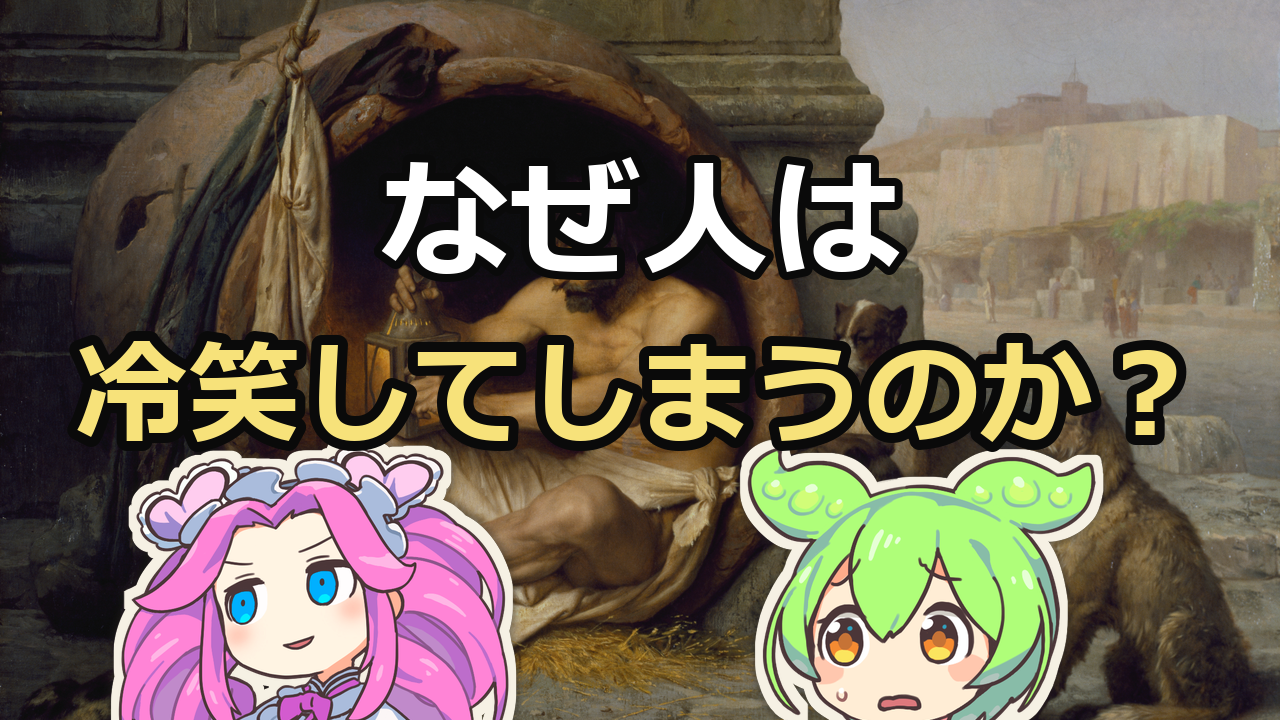
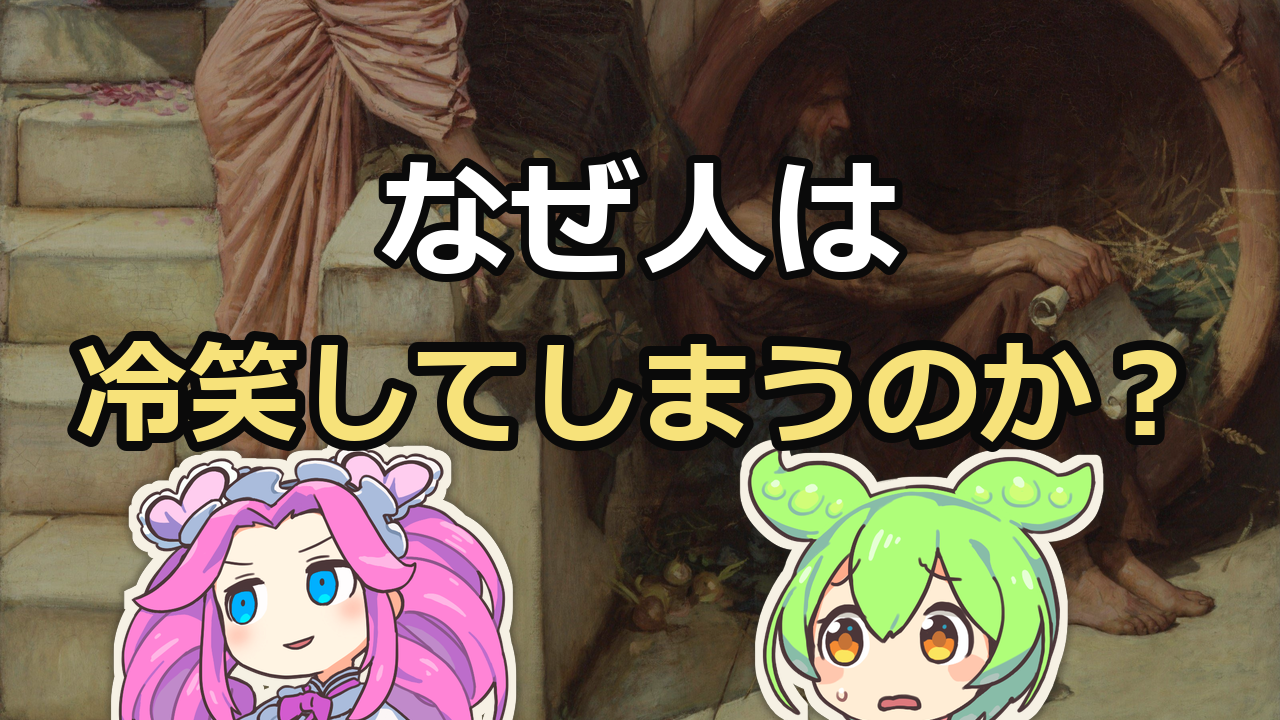
冷笑 ずんだもん版: サムネ候補 D〜J（手で口を覆う正面の口元アップ。G〜I は Codex 生成、見出しは上帯・人形は角の新レイアウト） #26

diff --git a/publish/20260905-cynicism-kamishibai/make_thumbs.py b/publish/20260905-cynicism-kamishibai/make_thumbs.py
@@ -26,6 +26,7 @@ from script_to_video.schema import Kamishibai
 OUT = Path(r"C:/Users/shuya/Projects/draft-explanation-video/publish/20260905-cynicism-kamishibai")
 SPRITES = Path(r"C:/Users/shuya/Projects/assets-kamishibai/sprites")
 PHOTOS = Path(r"C:/Users/shuya/Projects/assets-kamishibai/render-assets-cynicism")
+MOUTH_CANDIDATES = Path(r"C:/Users/shuya/Projects/assets-kamishibai/photos/candidates-cynicism/thumb-mouth")
 
 FONT_BOLD = Path(r"C:/Windows/Fonts/meiryob.ttc")
 
@@ -192,12 +193,116 @@ def make_thumb_c() -> Image.Image:
     return make_thumb(PHOTOS / "scene_03_beat1.jpg", darken_amount=0.25)
 
 
-def make_contact_sheet(images: list[Image.Image]) -> Image.Image:
-    """3案を横に並べた確認用サムネイルを作る（各画像を1/3幅に縮小）。"""
+# ============================================================
+# D/E/F: 口元アップ（手を口に当てて笑っている・正面）差し替え案
+# ============================================================
 
-    scale_w = W // 3
+
+def make_thumb_d() -> Image.Image:
+    """モノクロ・悪戯っぽい流し目＋口元を手で覆う（Pexels 7447408）。"""
+
+    return make_thumb(MOUTH_CANDIDATES / "cand08-pexels-woman-monochrome-playful.jpg", darken_amount=0.20)
+
+
+def make_thumb_e() -> Image.Image:
+    """落書き壁を背に正面から目線・指の隙間から覗く含み笑い（Pexels 3808995）。"""
+
+    return make_thumb(MOUTH_CANDIDATES / "cand11-pexels-redhair-graffiti.jpg", darken_amount=0.20)
+
+
+def make_thumb_f() -> Image.Image:
+    """石壁を背に正面から視線を合わせ、手を口元に当てる一枚（Pexels 36698477）。
+    元画像は16:9で顔が上寄りに収まるため、縦方向をトリミングして口元をズームする。"""
+
+    return make_thumb(MOUTH_CANDIDATES / "cand12-crop-portrait.jpg", darken_amount=0.20)
+
+
+# ============================================================
+# G/H/I/J: 見出しを上帯（35%以内）に集約し、人形を角に小さく配置する新レイアウト
+# （2026-09-06 フィードバック: 文字が口元に重なる／人形が中央寄りすぎる、を修正）
+# ============================================================
+
+GEN = Path(r"C:/Users/shuya/Projects/assets-kamishibai/photos/candidates-cynicism/thumb-mouth/gen")
+
+
+def draw_headline_top(base: Image.Image, center_x: int) -> None:
+    """見出し2行を画面上端の帯（上35%以内）へ収める。フォントは `draw_headline` より
+    小さくし、1行目・2行目とも上35%の枠内に収まる位置・サイズで描く。"""
+
+    line1_font = fit_bold_font(LINE1, max_width=round(W * 0.92), max_height=round(H * 0.115), stroke_width=6)
+    draw_bold_center(base, LINE1, center_x, round(H * 0.095), line1_font, WHITE, stroke_width=6)
+
+    line2_font = fit_bold_font(LINE2, max_width=round(W * 0.92), max_height=round(H * 0.135), stroke_width=7)
+    draw_bold_center(base, LINE2, center_x, round(H * 0.255), line2_font, YELLOW, stroke_width=7)
+
+
+def place_corner_puppets(base: Image.Image, metan_expr: str, zun_expr: str) -> None:
+    """人形を画面下端の左右の角へ、幅 W の約22%で小さく覗かせる（口元＝画面中央と重ならない
+    よう、左右の角だけに寄せる）。"""
+
+    target_width = round(W * 0.22)
+
+    # まず仮の高さで読み込み、素材のアスペクト比から目標幅に対応する高さを逆算する。
+    probe_h = round(H * 1.30)
+    metan_probe = load_puppet("metan", metan_expr, probe_h)
+    zun_probe = load_puppet("zundamon", zun_expr, probe_h)
+    metan_h = round(target_width * probe_h / metan_probe.width)
+    zun_h = round(target_width * probe_h / zun_probe.width)
+
+    metan = load_puppet("metan", metan_expr, metan_h)
+    zun = load_puppet("zundamon", zun_expr, zun_h)
+
+    visible_h = round(H * 0.26)  # 画面下端から見せたい高さ（顔の上半分程度・角に小さく覗く）
+    metan_top_y = H - visible_h
+    zun_top_y = H - visible_h
+
+    # 左下の角・右下の角に寄せる（画面中央の口元とは重ならない）。
+    paste(base, metan, 0, metan_top_y)
+    paste(base, zun, W - zun.width, zun_top_y)
+
+
+def make_thumb_v2(photo_path: Path, darken_amount: float) -> Image.Image:
+    """新レイアウト版: 見出しは上帯、人形は左右下の角に小さく配置し、写真の口元（中央〜
+    下中央）を隠さない。"""
+
+    bg = cover_fit(Image.open(photo_path), W, H)
+    darken(bg, darken_amount)
+    place_corner_puppets(bg, "smug", "confused")
+    draw_headline_top(bg, W // 2)
+    return bg
+
+
+def make_thumb_g() -> Image.Image:
+    """Codex生成・性別非明示プロンプト（口角に薄い見下し笑い、手は緩く口を覆う）。"""
+
+    return make_thumb_v2(GEN / "gen01-neutral-1920x1080.jpg", darken_amount=0.12)
+
+
+def make_thumb_h() -> Image.Image:
+    """Codex生成・"man" 明示プロンプト。"""
+
+    return make_thumb_v2(GEN / "gen02-man-1920x1080.jpg", darken_amount=0.12)
+
+
+def make_thumb_i() -> Image.Image:
+    """Codex生成・"woman" 明示プロンプト。"""
+
+    return make_thumb_v2(GEN / "gen03-woman-1920x1080.jpg", darken_amount=0.12)
+
+
+def make_thumb_j() -> Image.Image:
+    """ストックE案（Pexels 3808995・落書き壁）を新レイアウトで再構成。"""
+
+    return make_thumb_v2(MOUTH_CANDIDATES / "cand11-pexels-redhair-graffiti.jpg", darken_amount=0.20)
+
+
+def make_contact_sheet(images: list[Image.Image]) -> Image.Image:
+    """複数案を横に並べた確認用サムネイルを作る（各画像を等幅に縮小）。"""
+
+    n = len(images)
+    scale_w = W // n
     scale_h = round(H * scale_w / W)
-    sheet = Image.new("RGB", (scale_w * 3, scale_h), (0, 0, 0))
+    sheet = Image.new("RGB", (scale_w * n, scale_h), (0, 0, 0))
     for i, img in enumerate(images):
         small = img.convert("RGB").resize((scale_w, scale_h), Image.LANCZOS)
         sheet.paste(small, (i * scale_w, 0))
@@ -218,3 +323,32 @@ if __name__ == "__main__":
     contact_path = OUT / "thumb-contact.jpg"
     contact.save(contact_path, "JPEG", quality=90)
     print(f"{contact_path}: {contact.size} -> {contact_path.stat().st_size / 1024:.1f} KB")
+
+    d = make_thumb_d()
+    e = make_thumb_e()
+    f = make_thumb_f()
+
+    for img, name in ((d, "thumb-D.png"), (e, "thumb-E.png"), (f, "thumb-F.png")):
+        path = save(img, name)
+        size_kb = path.stat().st_size / 1024
+        print(f"{path}: {img.size} mode={img.mode} -> {size_kb:.1f} KB")
+
+    contact2 = make_contact_sheet([d, e, f])
+    contact2_path = OUT / "thumb-contact2.jpg"
+    contact2.save(contact2_path, "JPEG", quality=90)
+    print(f"{contact2_path}: {contact2.size} -> {contact2_path.stat().st_size / 1024:.1f} KB")
+
+    g = make_thumb_g()
+    h = make_thumb_h()
+    i = make_thumb_i()
+    j = make_thumb_j()
+
+    for img, name in ((g, "thumb-G.png"), (h, "thumb-H.png"), (i, "thumb-I.png"), (j, "thumb-J.png")):
+        path = save(img, name)
+        size_kb = path.stat().st_size / 1024
+        print(f"{path}: {img.size} mode={img.mode} -> {size_kb:.1f} KB")
+
+    contact3 = make_contact_sheet([g, h, i, j])
+    contact3_path = OUT / "thumb-contact3.jpg"
+    contact3.save(contact3_path, "JPEG", quality=90)
+    print(f"{contact3_path}: {contact3.size} -> {contact3_path.stat().st_size / 1024:.1f} KB")
